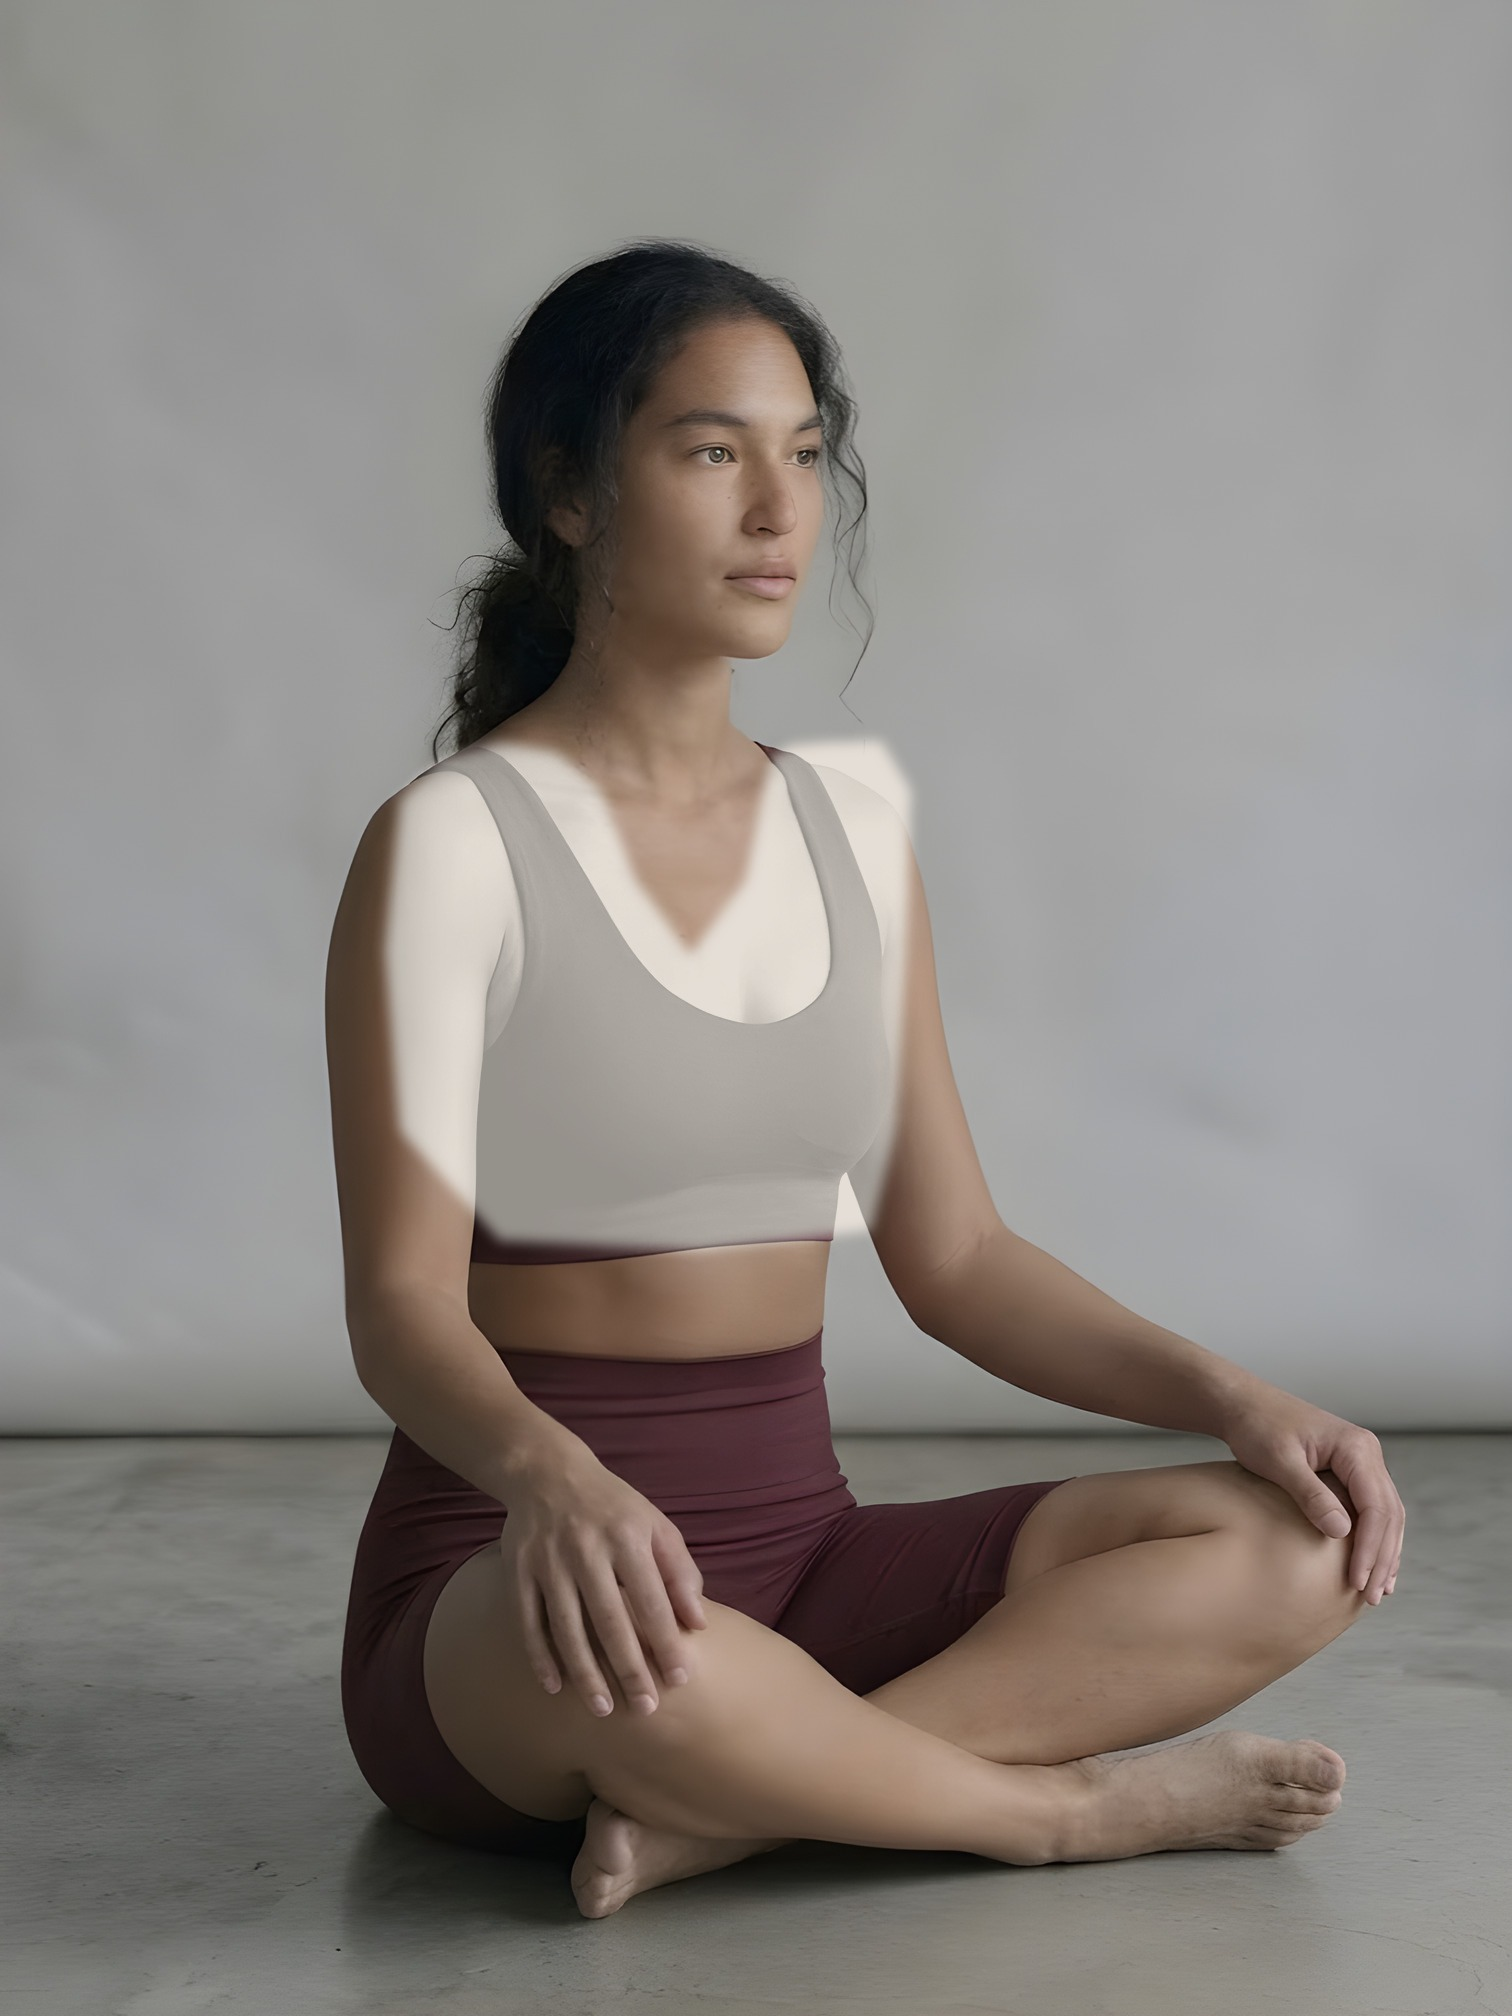
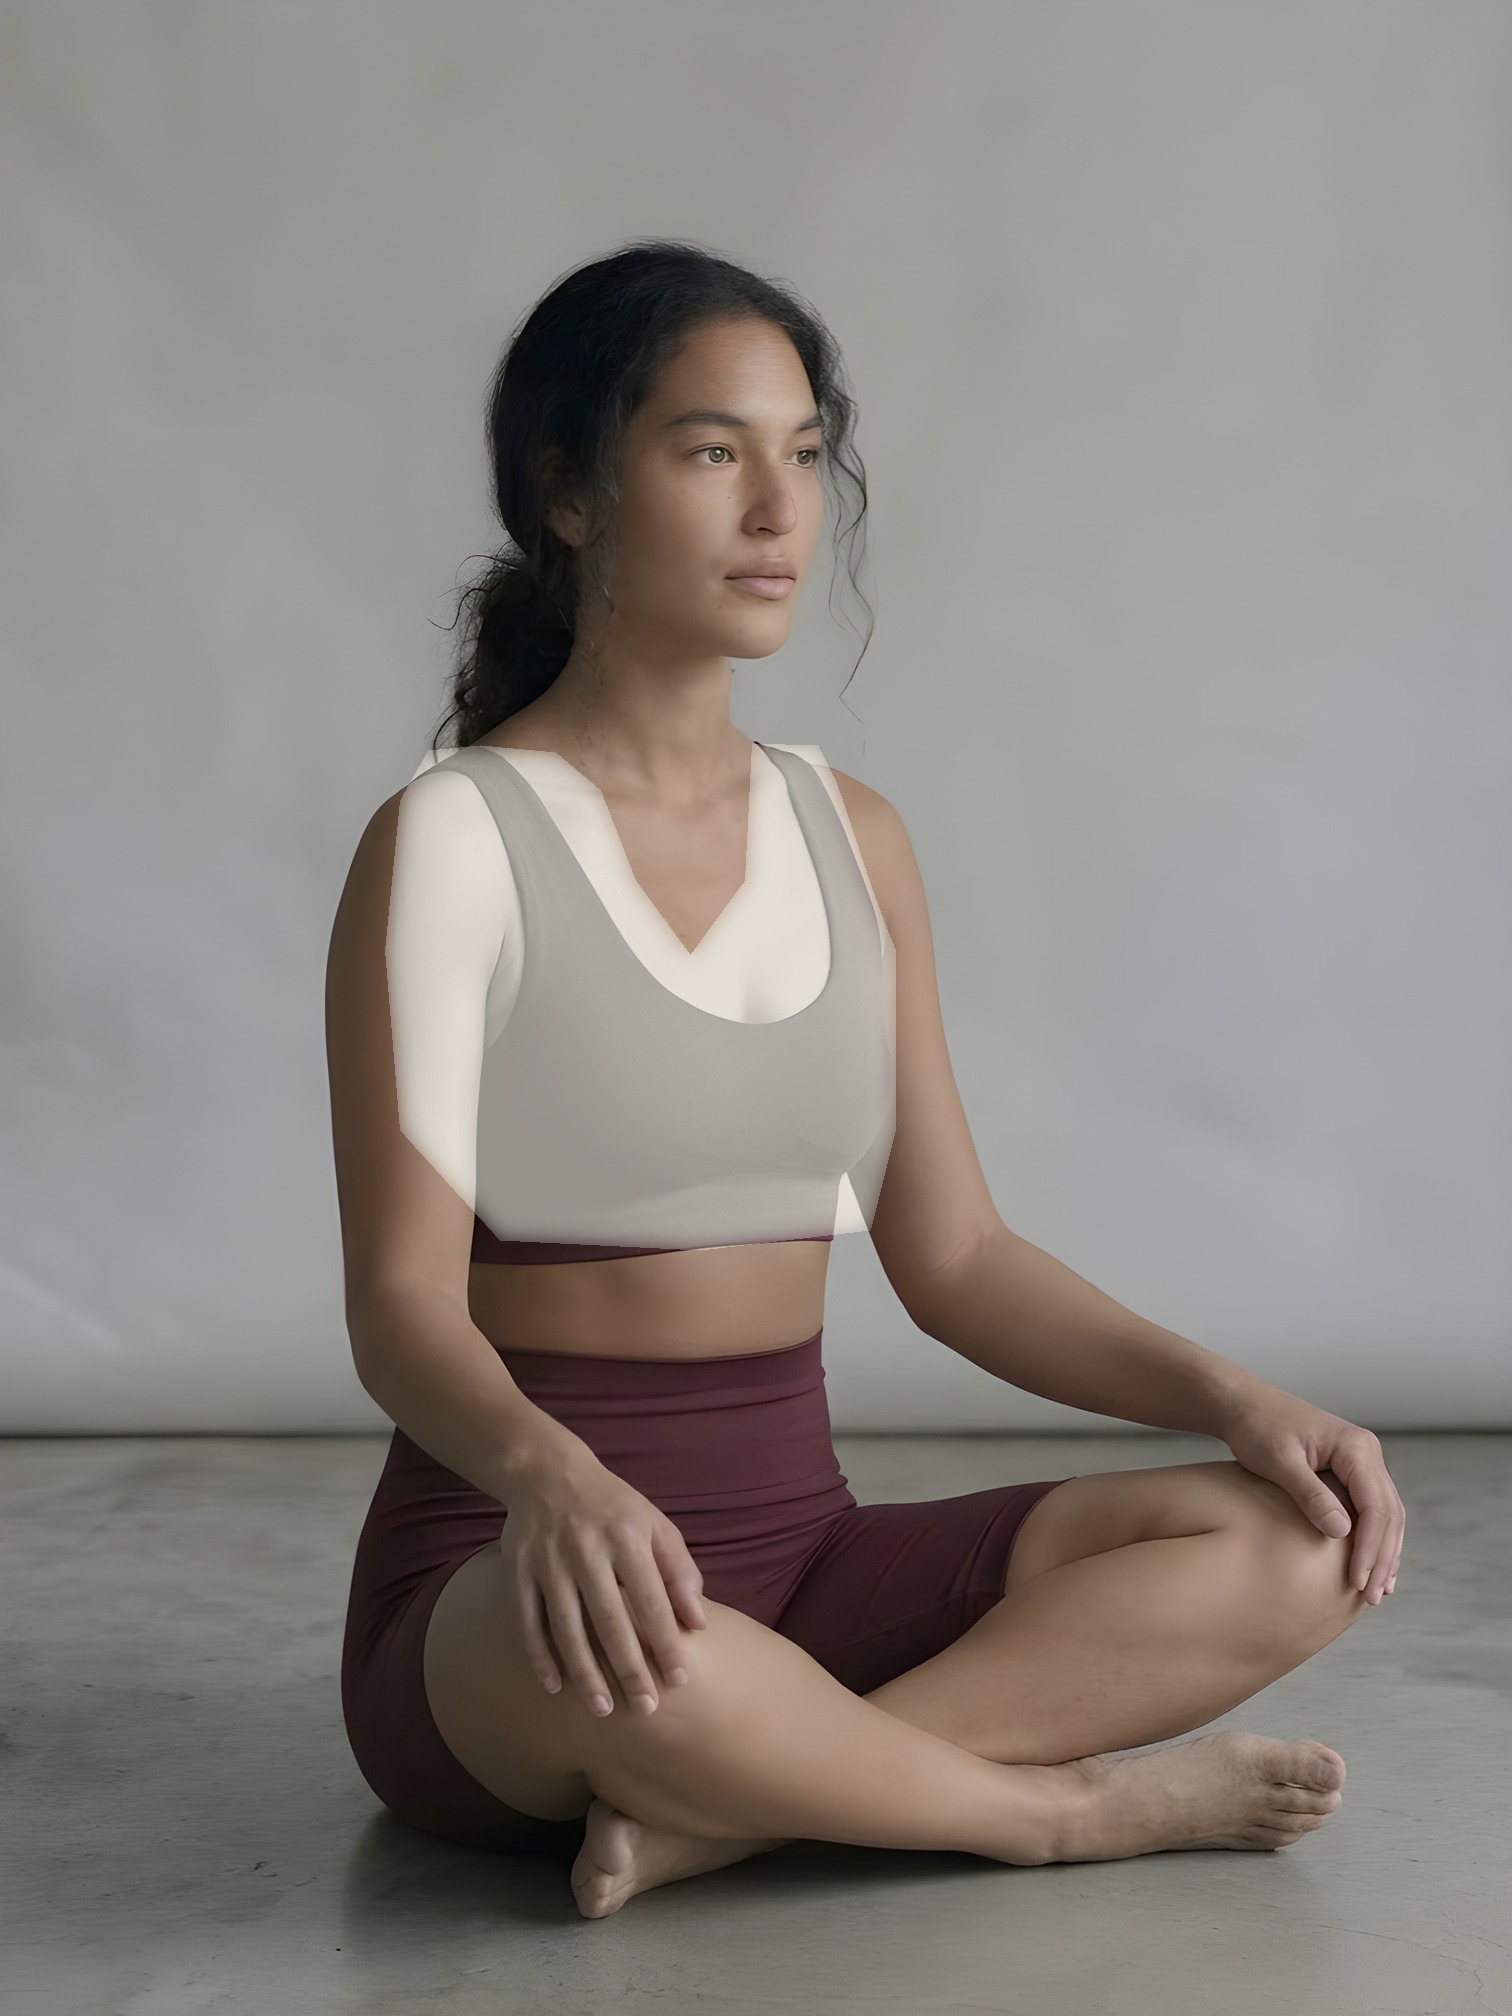
Fix halo artifact from the crop-top recolor (mask bled into background)
The previous recolor pass fed a hand-tuned polygon into a Gaussian blur
without clamping it to the polygon's own boundary, so the feathered edge
spread outward past the garment silhouette wherever the mask corners didn't
hug the actual fabric edge tightly enough (visible as a soft white glow on
the grey background/hair near the shoulder on all four images, and a small
sliver of the original colour peeking through on the short-top strap).
Re-measured the garment edges from the source pixels, tightened the masks
to match, and changed the feather to be inward-only (blur * hard-mask) so
it can never bleed past the polygon into the background, skin, or hair.
Re-verified zoomed crops on all four images before shipping this time.

Changed region(s): [[0.4974, 0.3438, 0.6217, 0.5625], [0.2487, 0.4062, 0.2798, 0.5625], [0.2798, 0.3438, 0.3419, 0.4062]]

diff --git a/assets/products.js b/assets/products.js
@@ -71,10 +71,10 @@ window.COVERLINE_PRODUCTS = [
     sizes: ["S","M","L"],
     proof: "Squat-tested. Not sheer. High waist that stays put.",
     colors: [
-      { key: "black", label: "Black", hex: "#25272a", image: "/assets/product-images/legging-black.jpg?v=12" },
-      { key: "nude", label: "Nude", hex: "#c9a888", image: "/assets/product-images/legging-nude.jpg?v=12" }
+      { key: "black", label: "Black", hex: "#25272a", image: "/assets/product-images/legging-black.jpg?v=13" },
+      { key: "nude", label: "Nude", hex: "#c9a888", image: "/assets/product-images/legging-nude.jpg?v=13" }
     ],
-    image: "/assets/product-images/legging-black.jpg?v=12",
+    image: "/assets/product-images/legging-black.jpg?v=13",
     swatch: function(){ return '<rect width="300" height="400" fill="var(--paper-raised)"/><path d="M0,240 C 100,300 200,200 300,260 L300,400 L0,400 Z" fill="var(--accent-2)" opacity=".5"/><path d="M0,150 C 110,90 190,210 300,160" fill="none" stroke="var(--accent)" stroke-width="1"/>'; }
   },
   {
@@ -89,10 +89,10 @@ window.COVERLINE_PRODUCTS = [
     sizes: ["S","M","L","XL"],
     proof: "Passes the squat test. Longer than the usual gym short.",
     colors: [
-      { key: "maroon", label: "Maroon", hex: "#5b2430", image: "/assets/product-images/short-maroon.jpg?v=12" },
-      { key: "pink", label: "Pink", hex: "#c79a9d", image: "/assets/product-images/short-pink.jpg?v=12" }
+      { key: "maroon", label: "Maroon", hex: "#5b2430", image: "/assets/product-images/short-maroon.jpg?v=13" },
+      { key: "pink", label: "Pink", hex: "#c79a9d", image: "/assets/product-images/short-pink.jpg?v=13" }
     ],
-    image: "/assets/product-images/short-maroon.jpg?v=12",
+    image: "/assets/product-images/short-maroon.jpg?v=13",
     swatch: function(){ return '<rect width="300" height="400" fill="var(--paper-raised)"/><path d="M0,270 C 100,320 200,240 300,280 L300,400 L0,400 Z" fill="var(--accent-2)" opacity=".5"/><path d="M0,170 C 100,220 200,120 300,180" fill="none" stroke="var(--accent)" stroke-width="1"/>'; }
   }
 ];
